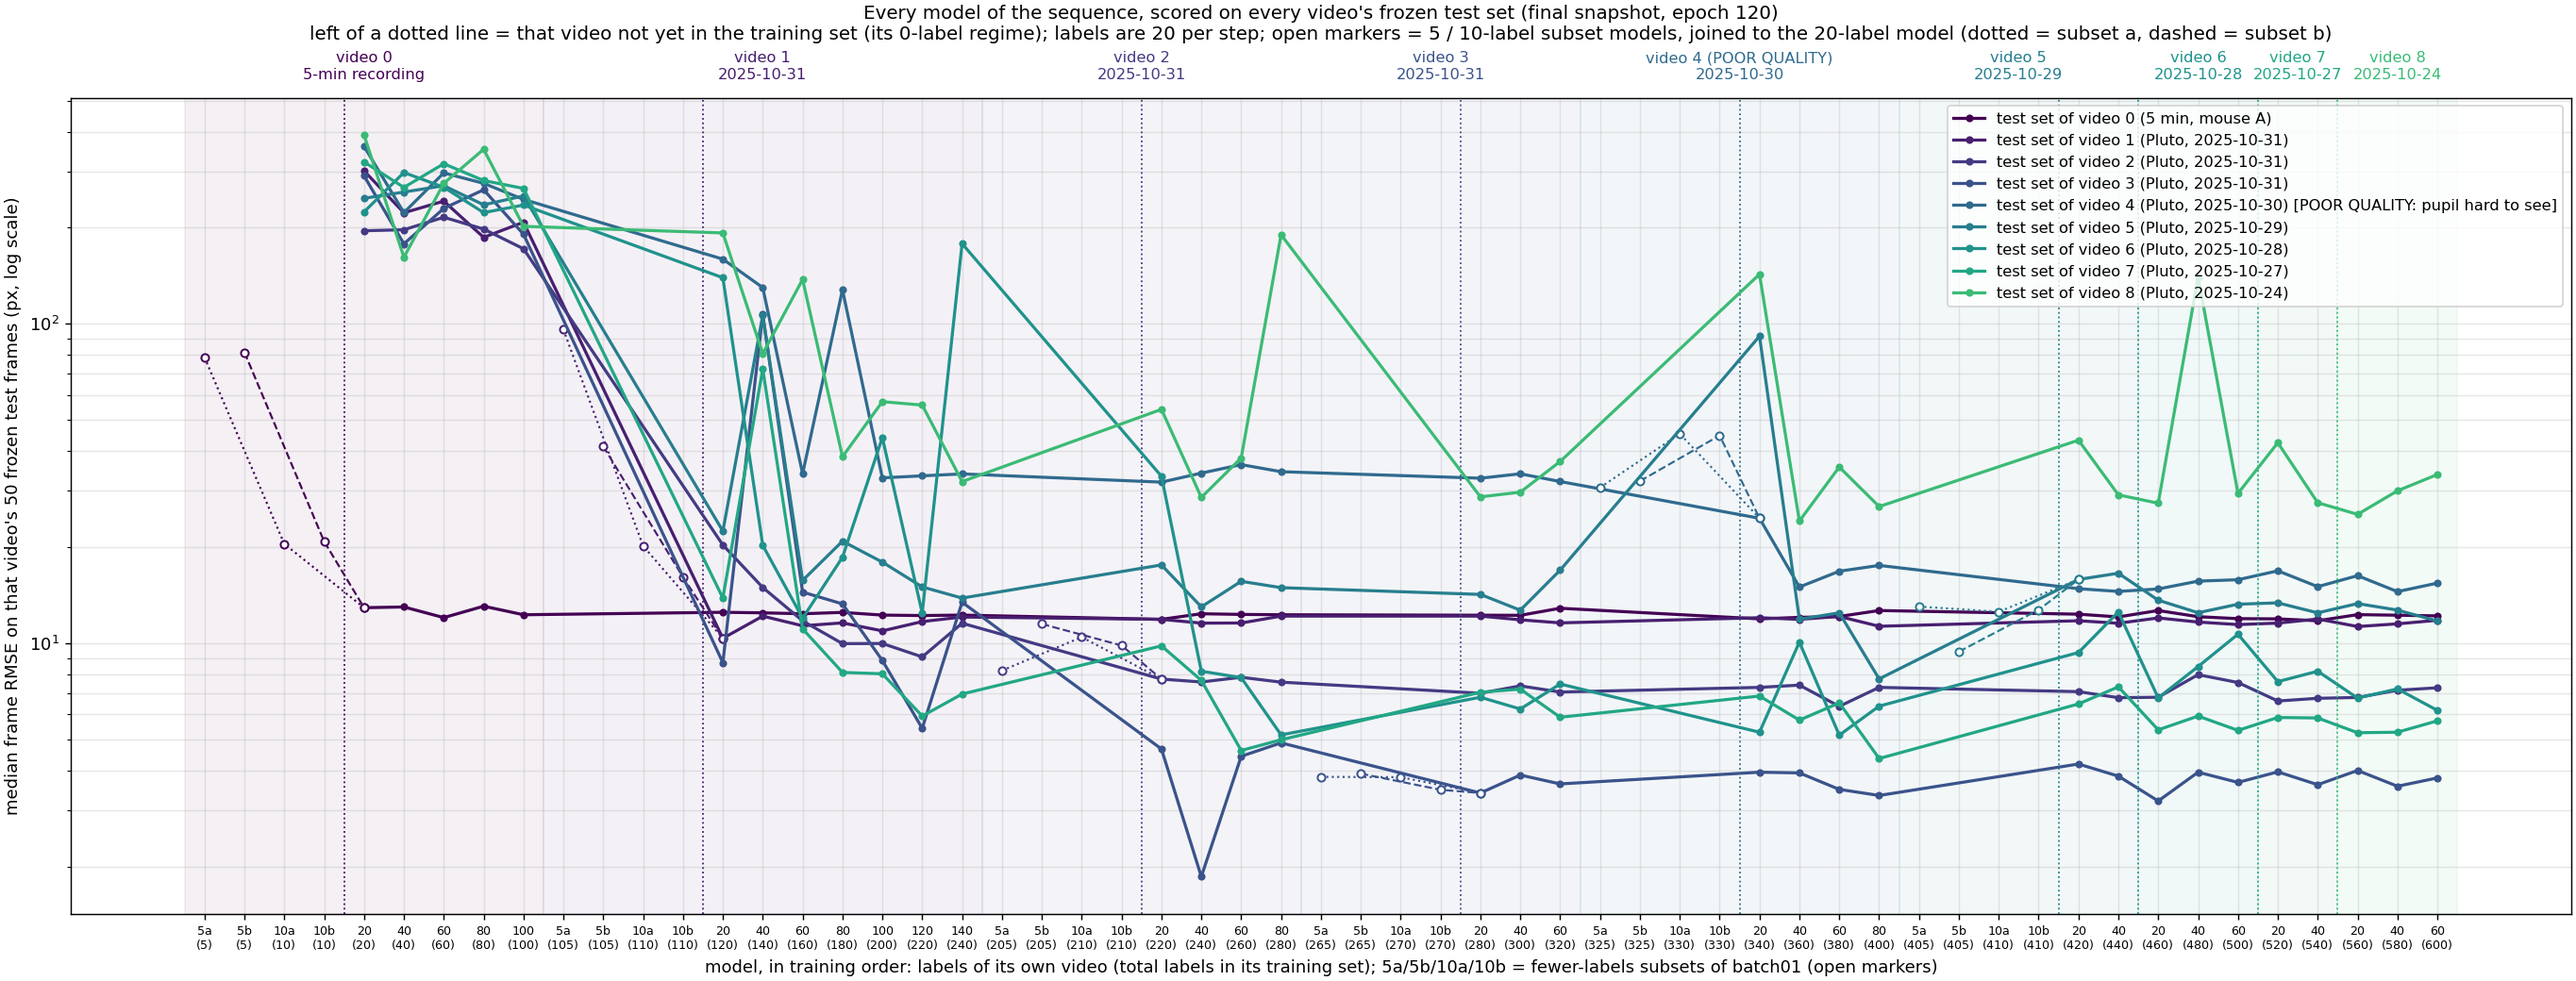
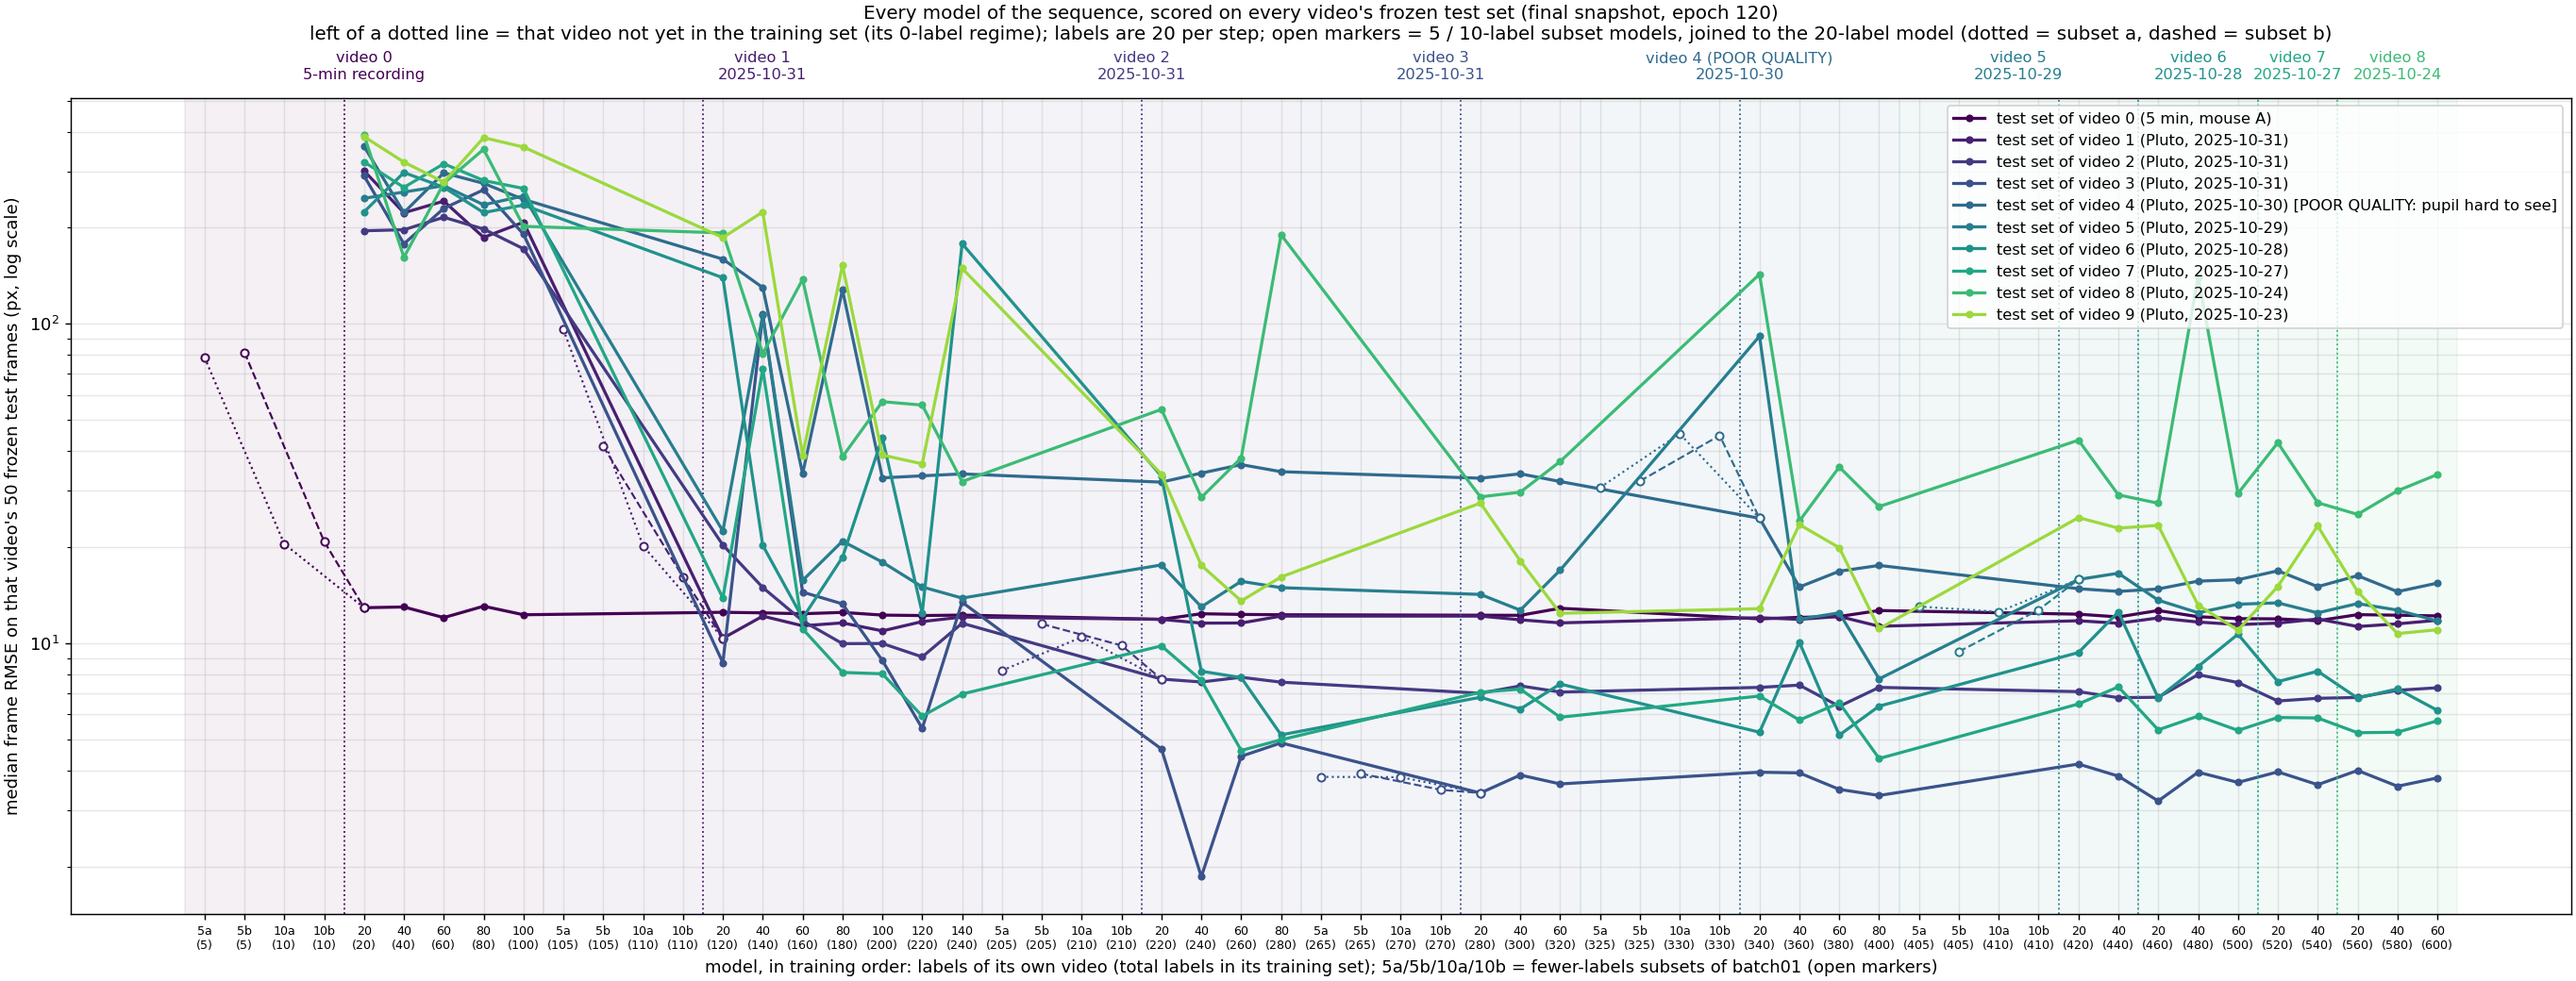
Video 9 (v2 line): test set labeled and frozen; 0-label score; step 1 training

diff --git a/README.md b/README.md
@@ -8,7 +8,7 @@ how many human labels are needed, and how few frames must a person correct, befo
 Zhiheng Li (University of Minnesota), with Kaiwen Sheng (Stanford). Raw videos, frames, labels, model weights and
 per-frame predictions stay local; git carries code, documentation and audited aggregate results.
 
-## Status (last updated 2026-09-30 18:30 CDT)
+## Status (last updated 2026-09-30 18:40 CDT)
 
 | what | state |
 |---|---|
@@ -20,7 +20,8 @@ per-frame predictions stay local; git carries code, documentation and audited ag
 | Finished | **fewer-labels study** (videos 0-5, step 1 retrained with 5 or 10 of its 20 labels, training set otherwise as at that time): 5 labels were enough only on videos 3 and 5; on videos 0, 1, 2 and 4, 5 or 10 labels fall short of 20 (video 4: 10 labels worse than none). 20 labels is the smallest batch that worked on every video; table in `v2_new_pupil_top_video_scaling/results/README.md` |
 | Finished | **video 6** (Pluto, 2025-10-28, v2 line continued): test set relabeled under v2 and frozen; 0 labels (video-5 model 631) = 9.36 px, 20 labels = 6.75 px (p90 11.2), 40 labels = 8.46 px, 60 labels = 10.68 px (p90 14.9): finished at **20 labels, 6.75 px** (rule fired at 60; user decision 2026-09-29). |
 | Finished | **video 7** (Pluto, 2025-10-27, v2 line): test set relabeled under v2 and frozen; 0 labels (video-6 model 711) = 5.36 px, 20 labels = 5.86 px, 40 labels = 5.84 px: finished at **0 labels, 5.36 px** - the video-6 model already fits this day (user decision 2026-09-29). |
-| Finished | **video 8** (Pluto, 2025-10-24, v2 line): test set relabeled under v2 and frozen; 0 labels (video-6 model 711) = 27.46 px, 20 labels = 25.34 px, 40 labels = 30.03 px (p90 ~50, 12-14% of frames > 50 px - a hard day, 3 days after video 7); 60 labels = 33.77 px: finished at **20 labels, 25.34 px** (rule fired at 60; 12-16% of frames > 50 px at every step - this day is hard). Next: video 9 (2025-10-23), test set being labeled (pre-labels from the video-6 model 711) Cross-video curves now also show the 5 / 10-label subset models (open markers) |
+| Finished | **video 8** (Pluto, 2025-10-24, v2 line): test set relabeled under v2 and frozen; 0 labels (video-6 model 711) = 27.46 px, 20 labels = 25.34 px, 40 labels = 30.03 px (p90 ~50, 12-14% of frames > 50 px - a hard day, 3 days after video 7); 60 labels = 33.77 px: finished at **20 labels, 25.34 px** (rule fired at 60; 12-16% of frames > 50 px at every step - this day is hard). |
+| In progress | **video 9** (Pluto, 2025-10-23, v2 line): test50 / val20 / batch01 labeled from model-711 pre-labels; 0 labels (model 711) = 23.41 px; step 1 (20 labels) training Cross-video curves now also show the 5 / 10-label subset models (open markers) |
 | Blink / area analysis | per-video time series in `<video>/results/blink_area_analysis/`; across videos (`v2_new_pupil_top_video_scaling/results/blink_area_consistency.png`): 4-point area better on 7 of 8 test sets; lowest pupil confidence < ~0.2 separates all 16 human closed-eye frames (the production 0.6 cut flags ~half of open frames); area correlates with eye opening in every video |
 | Test-set only | videos 5-8 (2025-10-29 / 28 / 27 / 24): frozen test sets scored by every model so far; videos 9 (10-23) and 10 (10-22): test sets being labeled |
 
@@ -39,6 +40,7 @@ Labels needed per video (plateau = two consecutive 20-label steps that improve t
 | 6 | Pluto, 2025-10-28 | 380 | 9.36 / 6.75 / 8.46 / 10.68 px (v2) | 20 labels, 6.75 px (rule fired at 60) |
 | 7 | Pluto, 2025-10-27 | 400 | 5.36 / 5.86 / 5.84 px (v2) | 0 labels, 5.36 px (rule fired at 40) |
 | 8 | Pluto, 2025-10-24 | 400 | 27.46 / 25.34 / 30.03 / 33.77 px (v2) | 20 labels, 25.3 px (rule fired at 60) |
+| 9 | Pluto, 2025-10-23 | 420 | 23.41 px (v2, in progress) | – |
 
 What the numbers say:
 

diff --git a/v2_new_pupil_top_video_scaling/results/README.md b/v2_new_pupil_top_video_scaling/results/README.md
@@ -21,6 +21,7 @@ snapshot with the best validation mAP after the first learning-rate drop (epochs
 | 6 `6_20251028_Pluto_spont_1` | mouse B, 19.9 min, 2025-10-28 | 380 (videos 0-3 + 40 of video 4 + 20 of video 5) | convention v2: 9.36 / 6.75 / 8.46 / 10.68 | **20 labels** (rule fired at 60; user decision 2026-09-29) | 6.75 px |
 | 7 `7_20251027_Pluto_spont1` | mouse B, 19.9 min, 2025-10-27 | 400 (videos 0-3 + 40 of video 4 + 20 of video 5 + 20 of video 6) | convention v2: 5.36 / 5.86 / 5.84 | **0 labels** (rule fired at 40; user decision 2026-09-29) | 5.36 px |
 | 8 `8_20251024_Pluto_spont1` | mouse B, 19.9 min, 2025-10-24 | 400 (videos 0-3 + 40 of video 4 + 20 of video 5 + 20 of video 6) | convention v2: 27.46 / 25.34 / 30.03 / 33.77 | **20 labels** (rule fired at 60; user decision 2026-09-30) | 25.34 px |
+| 9 `9_20251023_Pluto1` | mouse B, 19.9 min, 2025-10-23 | 420 (videos 0-3 + 40 of video 4 + 20 each of videos 5, 6, 8) | convention v2: 23.41 / – | in progress | – |
 
 `labels_to_plateau.png` / `labels_to_plateau.csv` (2026-09-30): the plateau point of every video in the sequence as one figure - labels needed (left) and the error at the plateau vs the 0-label error (right); `scripts/plot_labels_to_plateau.py`. The csv is the table above in machine-readable form and is updated when a video finishes.
 

diff --git a/v2_new_pupil_top_video_scaling/9_20251023_Pluto1/results/README.md b/v2_new_pupil_top_video_scaling/9_20251023_Pluto1/results/README.md
@@ -1,0 +1,11 @@
+# Video 9: 2025-10-23 Pluto 1 (mouse B, 19.9 min; index 9) - labeling convention v2
+
+Label scaling under convention v2, continuing the v2 line after video 8. This video had no earlier human labels: test50,
+val20 and batch01 were pre-labeled with the video-6 20-label model (711) and corrected by the labeler on 2026-09-30
+(test50: 177 of 400 points moved), then the test set was frozen. Training set of every step = videos 0-3 + video 4 run 2
+batches 1-2 (40) + video 5 batch 1 (20) + video 6 batch 1 (20) + video 8 batch 1 (20) + this video's labels (video 7
+contributed none); shuffles 1011, 1012, ...
+
+| labels of this video | median | p90 | frames > 50 px | keypoints conf >= 0.6 | pool frames flagged by the jump rule |
+|---|---|---|---|---|---|
+| 0 (video-6 20-label model 711, applied unchanged) | 23.41 px | 41.4 | 8% | 36% | – |
